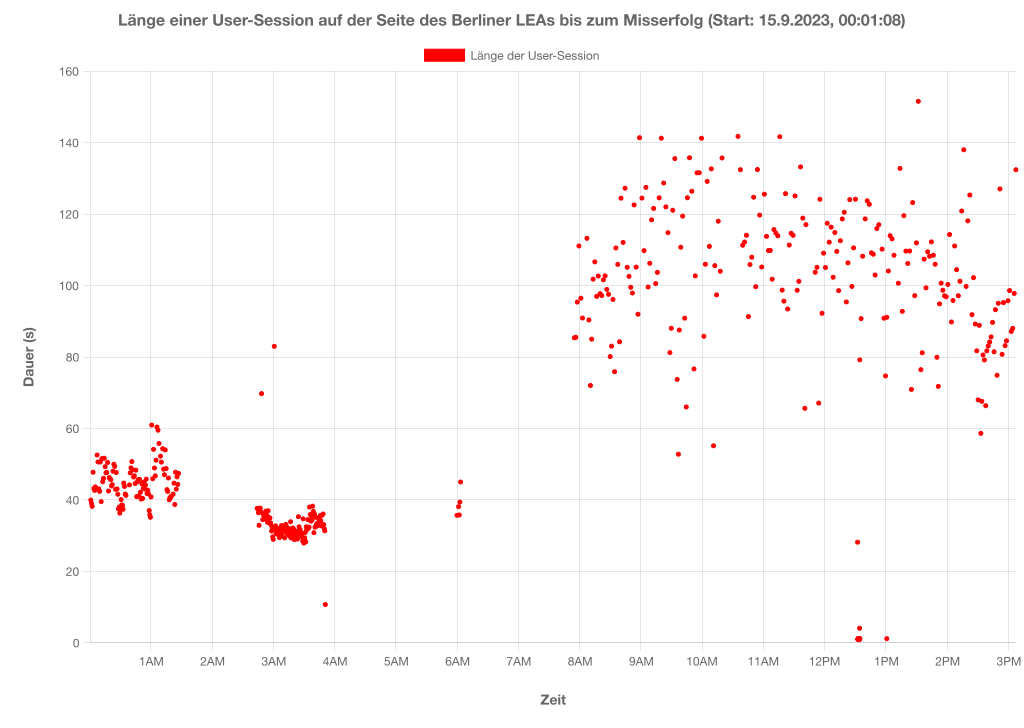
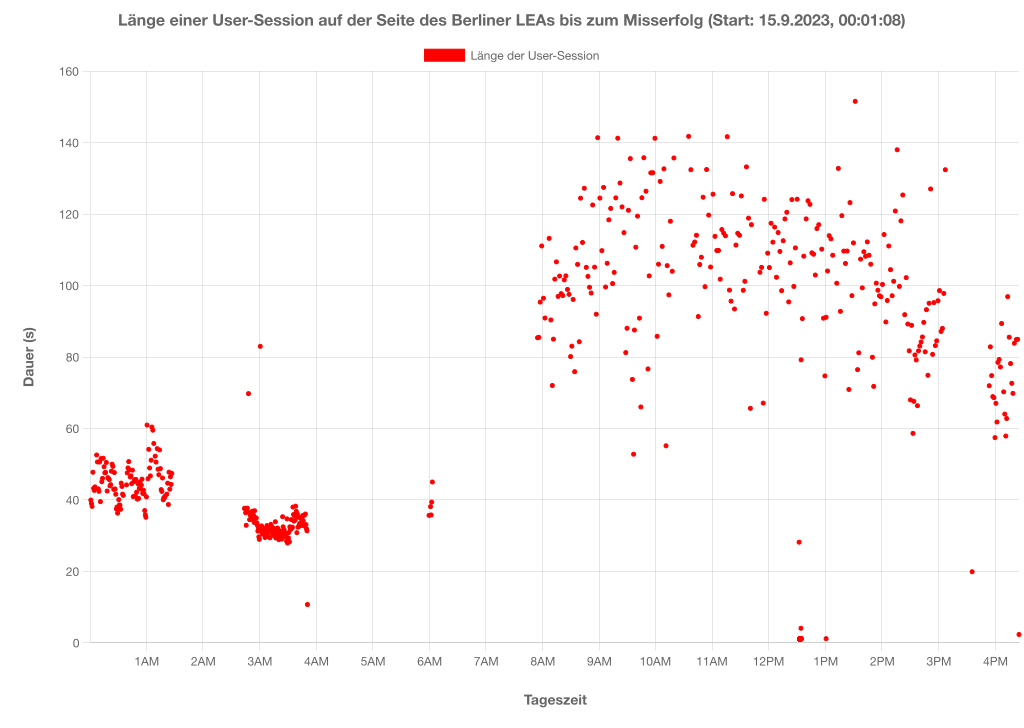
New data.

diff --git a/src/models/graphs/SessionDurationGraph.ts b/src/models/graphs/SessionDurationGraph.ts
@@ -18,7 +18,7 @@ class SessionDurationGraph extends Graph<SessionData> {
         const opts = {
             type: 'scatter' as ChartType,
             title: `Länge einer User-Session auf der Seite des Berliner LEAs bis zum Misserfolg (Start: ${start.toLocaleString(LOCALE)})`,
-            xAxisLabel: `Zeit`,
+            xAxisLabel: `Tageszeit`,
             yAxisLabel: `Dauer (${yUnit})`,
         };
 
